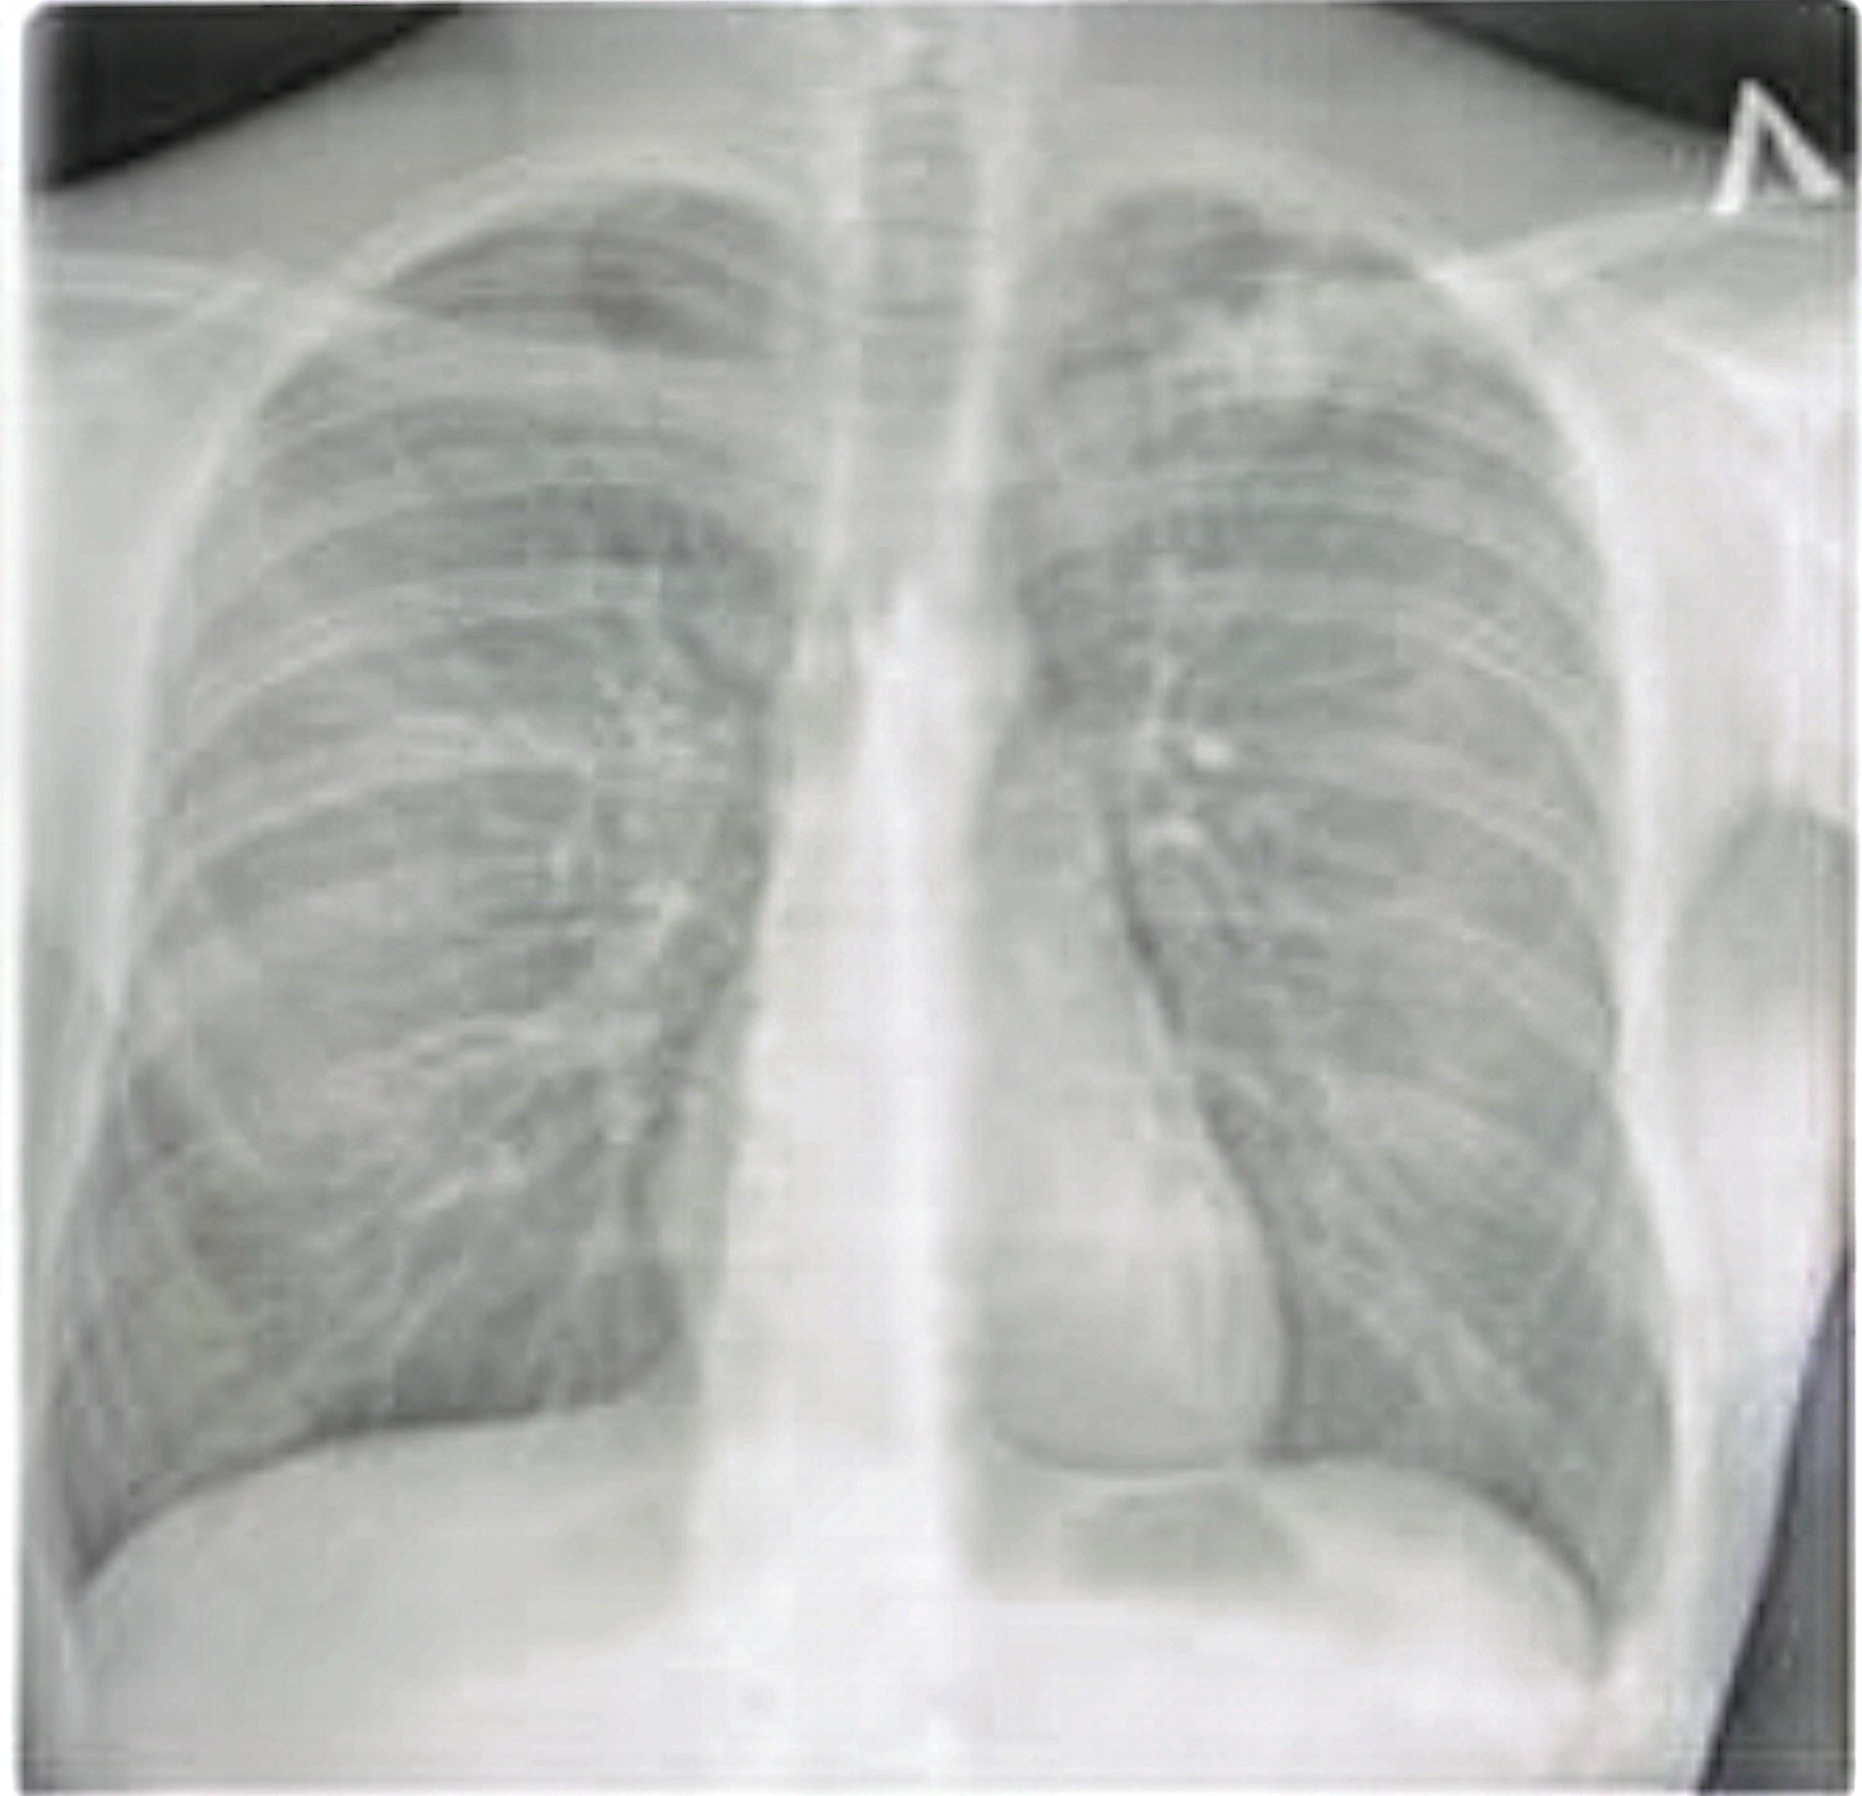
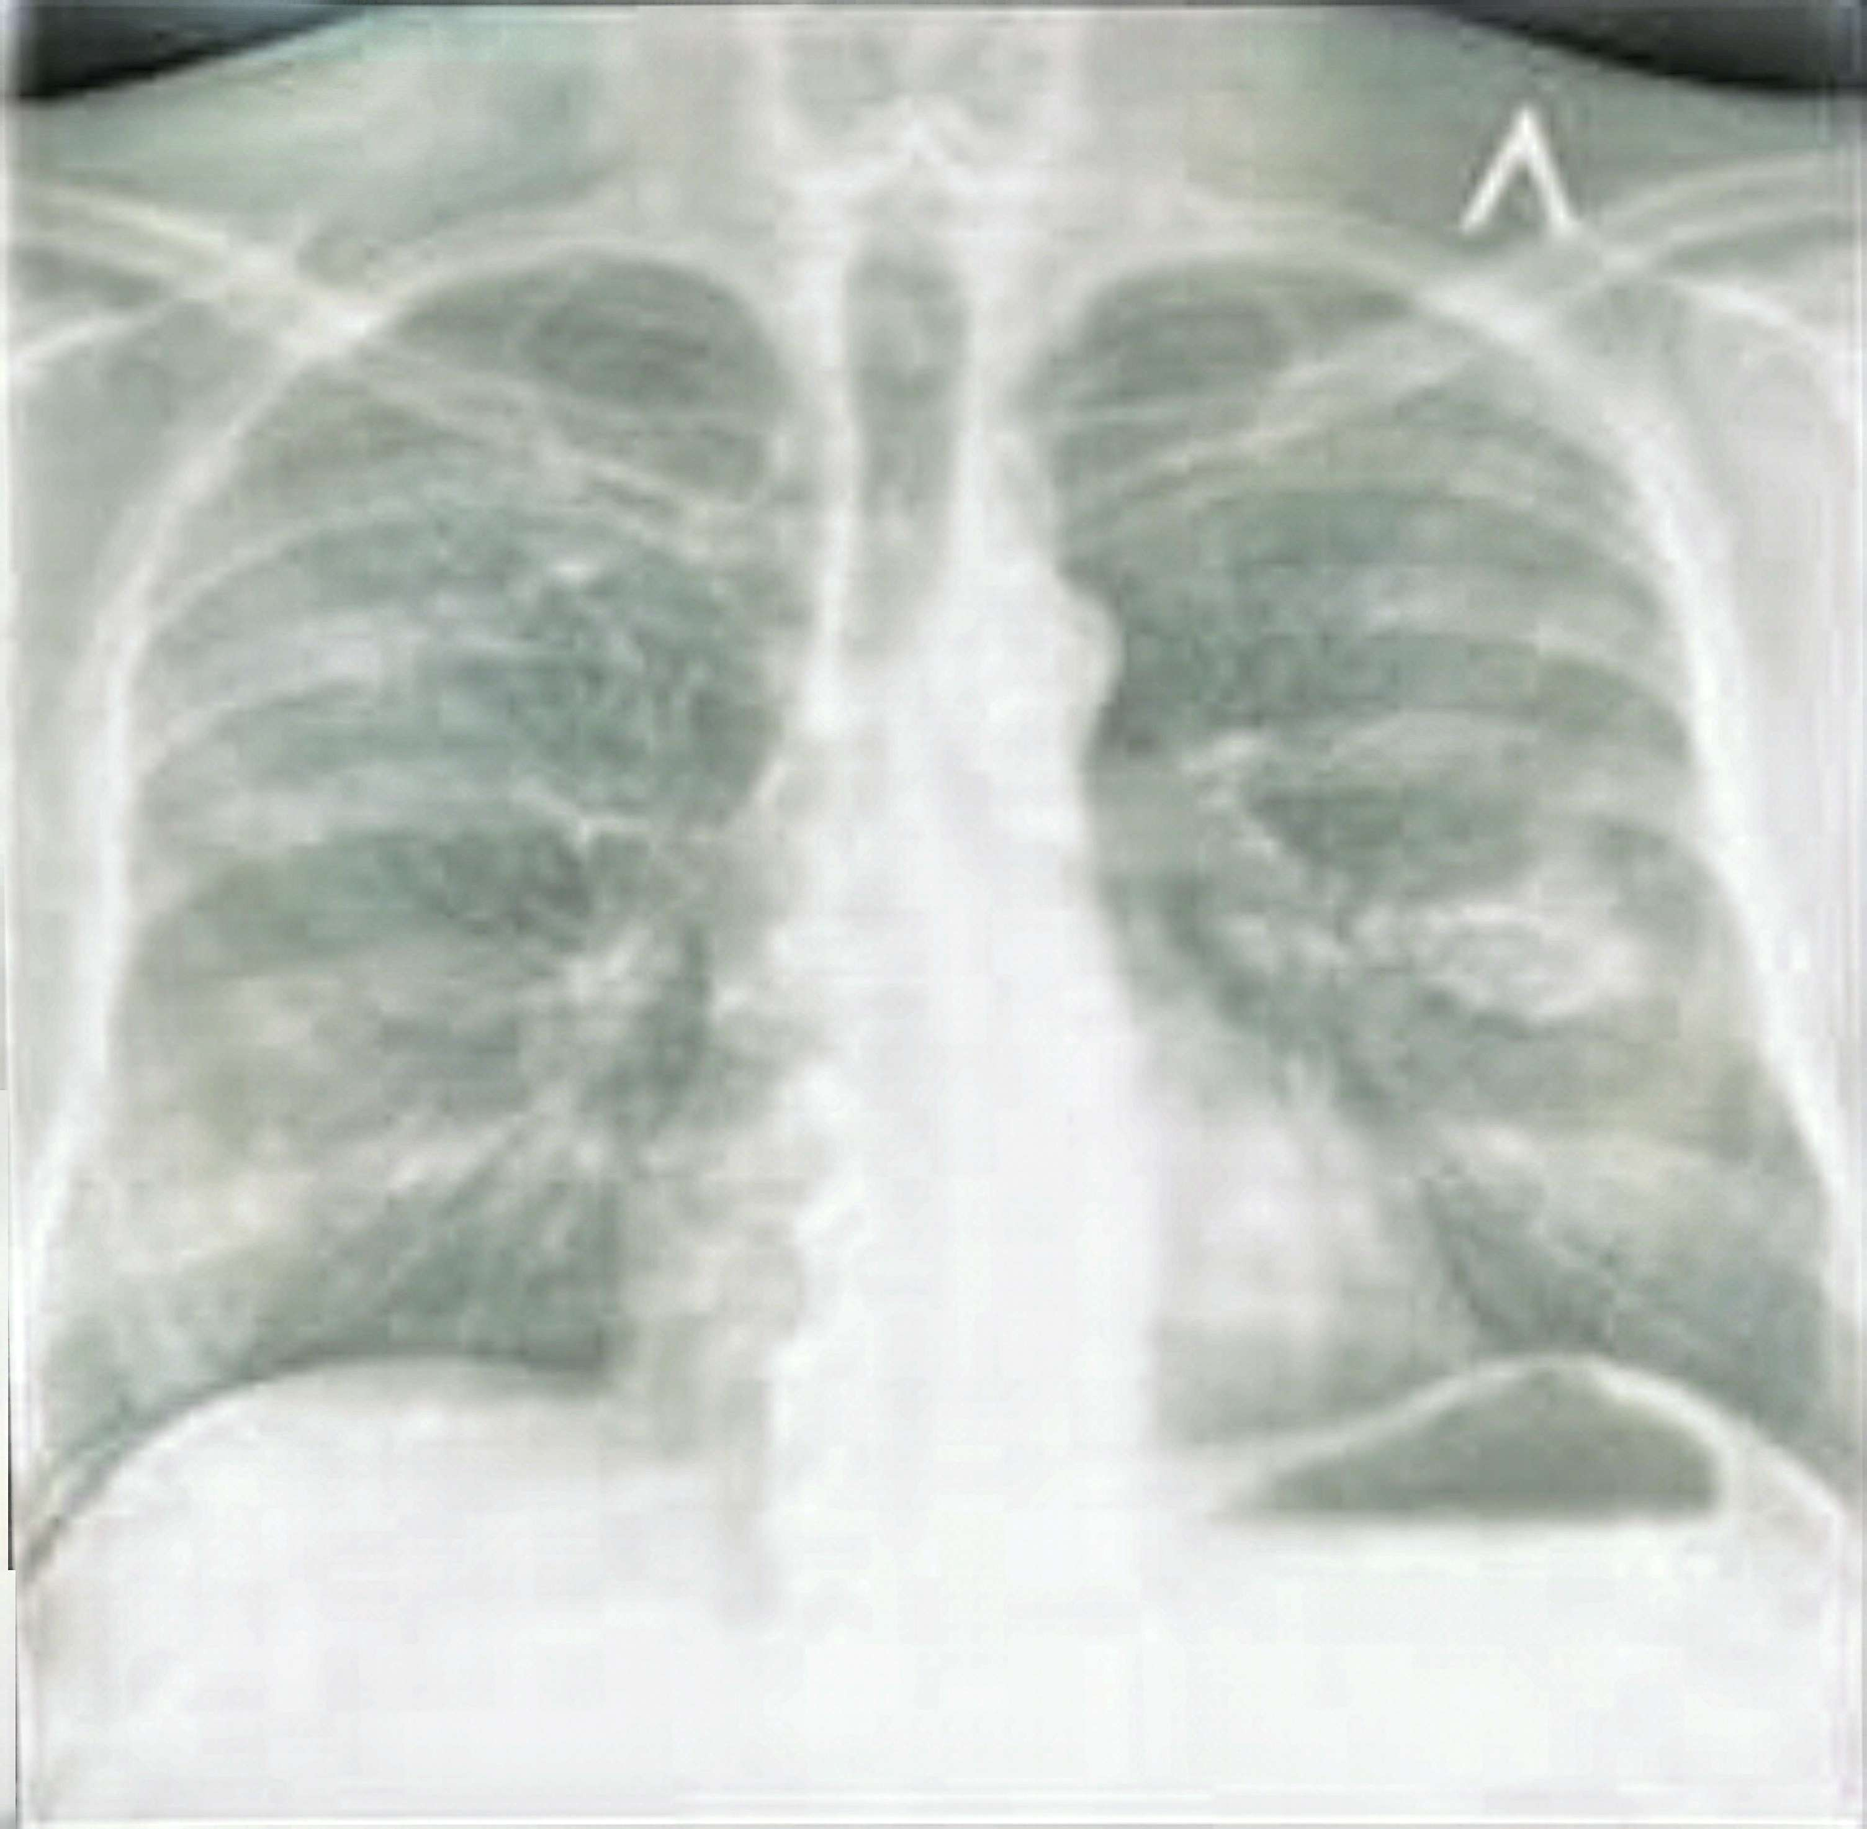
ughhh

diff --git a/frontend/src/pages/Doctor/ReviewedCases.jsx b/frontend/src/pages/Doctor/ReviewedCases.jsx
@@ -21,15 +21,17 @@ const ReviewedCases = () => {
     if (myCases) {
       console.log("🔍 Filtering reviewed cases from myCases...");
       console.log("Total my cases:", myCases.length);
-      
-      const reviewedCases = myCases.filter((caseItem) => caseItem.status === "reviewed");
+
+      const reviewedCases = myCases.filter(
+        (caseItem) => caseItem.status === "reviewed",
+      );
 
       console.log("✅ Found", reviewedCases.length, "reviewed cases");
 
       const searched = reviewedCases.filter(
         (c) =>
           c.patientId?.toLowerCase().includes(searchTerm.toLowerCase()) ||
-          c.report?.diagnosis?.toLowerCase().includes(searchTerm.toLowerCase())
+          c.report?.diagnosis?.toLowerCase().includes(searchTerm.toLowerCase()),
       );
 
       setFilteredCases(searched);
@@ -171,15 +173,21 @@ const ReviewedCases = () => {
                       </button>
                     </td>
                     <td className="px-6 py-4 align-middle">
-                      <button
-                        onClick={() => {
-                          setSelectedCase(item);
-                          setShowAIModal(true);
-                        }}
-                        className="px-4 py-2 bg-purple-50 text-purple-700 rounded-lg text-sm font-medium hover:bg-purple-100 transition"
-                      >
-                        View AI Report
-                      </button>
+                      {item.aiResult ? (
+                        <button
+                          onClick={() => {
+                            setSelectedCase(item);
+                            setShowAIModal(true);
+                          }}
+                          className="px-4 py-2 bg-purple-50 text-purple-700 rounded-lg text-sm font-medium hover:bg-purple-100 transition"
+                        >
+                          View AI Report
+                        </button>
+                      ) : (
+                        <span className="text-sm text-gray-500">
+                          AI Report Not Available
+                        </span>
+                      )}
                     </td>
                   </tr>
                 ))}
@@ -260,7 +268,7 @@ const ReviewedCases = () => {
                         {selectedCase.report[field]}
                       </div>
                     </div>
-                  )
+                  ),
               )}
 
               <div className="pt-4 border-t border-gray-200 text-sm text-gray-600">
@@ -293,15 +301,29 @@ const ReviewedCases = () => {
           <div className="bg-white rounded-2xl max-w-4xl w-full max-h-[90vh] overflow-hidden shadow-2xl">
             <div className="px-6 py-4 border-b flex items-center justify-between bg-gradient-to-r from-purple-50 to-blue-50">
               <div>
-                <h2 className="text-xl font-bold text-gray-800">AI Analysis Report</h2>
-                <p className="text-sm text-gray-600">Patient ID: {selectedCase.patientId}</p>
+                <h2 className="text-xl font-bold text-gray-800">
+                  AI Analysis Report
+                </h2>
+                <p className="text-sm text-gray-600">
+                  Patient ID: {selectedCase.patientId}
+                </p>
               </div>
               <button
                 onClick={() => setShowAIModal(false)}
                 className="p-2 hover:bg-gray-100 rounded-full transition-all"
               >
-                <svg className="w-6 h-6" fill="none" stroke="currentColor" viewBox="0 0 24 24">
-                  <path strokeLinecap="round" strokeLinejoin="round" strokeWidth={2} d="M6 18L18 6M6 6l12 12" />
+                <svg
+                  className="w-6 h-6"
+                  fill="none"
+                  stroke="currentColor"
+                  viewBox="0 0 24 24"
+                >
+                  <path
+                    strokeLinecap="round"
+                    strokeLinejoin="round"
+                    strokeWidth={2}
+                    d="M6 18L18 6M6 6l12 12"
+                  />
                 </svg>
               </button>
             </div>
@@ -310,7 +332,9 @@ const ReviewedCases = () => {
               {/* Images Section */}
               <div className="grid grid-cols-2 gap-4 mb-6">
                 <div>
-                  <h3 className="text-sm font-semibold text-gray-700 mb-2">Original X-Ray</h3>
+                  <h3 className="text-sm font-semibold text-gray-700 mb-2">
+                    Original X-Ray
+                  </h3>
                   <img
                     src={selectedCase.imageUrl}
                     alt="X-ray"
@@ -320,38 +344,56 @@ const ReviewedCases = () => {
                 </div>
                 {selectedCase.aiResult.heatmapUrl && (
                   <div>
-                    <h3 className="text-sm font-semibold text-gray-700 mb-2">AI Attention Map (Grad-CAM)</h3>
+                    <h3 className="text-sm font-semibold text-gray-700 mb-2">
+                      AI Attention Map (Grad-CAM)
+                    </h3>
                     <img
                       src={selectedCase.aiResult.heatmapUrl}
                       alt="Heatmap"
                       className="w-full h-64 object-cover border rounded-lg cursor-pointer hover:opacity-80"
-                      onClick={() => setExpandedImage(selectedCase.aiResult.heatmapUrl)}
+                      onClick={() =>
+                        setExpandedImage(selectedCase.aiResult.heatmapUrl)
+                      }
                     />
-                    <p className="text-xs text-gray-500 mt-1">Highlighted areas show AI focus regions</p>
+                    <p className="text-xs text-gray-500 mt-1">
+                      Highlighted areas show AI focus regions
+                    </p>
                   </div>
                 )}
               </div>
 
               {/* Predictions */}
               <div className="mb-6">
-                <h3 className="text-lg font-bold text-gray-800 mb-3">AI Predictions</h3>
+                <h3 className="text-lg font-bold text-gray-800 mb-3">
+                  AI Predictions
+                </h3>
                 <div className="space-y-3">
                   {selectedCase.aiResult.predictions.map((pred, idx) => (
                     <div key={idx} className="bg-gray-50 p-4 rounded-lg">
                       <div className="flex justify-between items-center mb-2">
-                        <span className="text-base font-semibold text-gray-800">{pred.label}</span>
-                        <span className={`text-lg font-bold ${
-                          pred.confidence > 80 ? 'text-red-600' : 
-                          pred.confidence > 50 ? 'text-orange-600' : 'text-green-600'
-                        }`}>
+                        <span className="text-base font-semibold text-gray-800">
+                          {pred.label}
+                        </span>
+                        <span
+                          className={`text-lg font-bold ${
+                            pred.confidence > 80
+                              ? "text-red-600"
+                              : pred.confidence > 50
+                                ? "text-orange-600"
+                                : "text-green-600"
+                          }`}
+                        >
                           {pred.confidence.toFixed(2)}%
                         </span>
                       </div>
                       <div className="w-full bg-gray-200 rounded-full h-2">
                         <div
                           className={`h-2 rounded-full ${
-                            pred.confidence > 80 ? 'bg-red-500' : 
-                            pred.confidence > 50 ? 'bg-orange-500' : 'bg-green-500'
+                            pred.confidence > 80
+                              ? "bg-red-500"
+                              : pred.confidence > 50
+                                ? "bg-orange-500"
+                                : "bg-green-500"
                           }`}
                           style={{ width: `${pred.confidence}%` }}
                         ></div>
@@ -364,21 +406,30 @@ const ReviewedCases = () => {
               {/* Quality Checks */}
               {selectedCase.aiResult.qcResults && (
                 <div>
-                  <h3 className="text-lg font-bold text-gray-800 mb-3">Quality Checks</h3>
+                  <h3 className="text-lg font-bold text-gray-800 mb-3">
+                    Quality Checks
+                  </h3>
                   <div className="grid grid-cols-2 md:grid-cols-3 gap-3">
-                    {Object.entries(selectedCase.aiResult.qcResults).map(([key, value]) => 
-                      key !== 'qc_pass' && (
-                        <div key={key} className={`p-3 rounded-lg ${value ? 'bg-green-50 border border-green-200' : 'bg-red-50 border border-red-200'}`}>
-                          <div className="flex items-center justify-between">
-                            <span className="text-sm font-medium text-gray-700">
-                              {key.replace('_', ' ').charAt(0).toUpperCase() + key.replace('_', ' ').slice(1)}
-                            </span>
-                            <span className={`text-sm font-bold ${value ? 'text-green-700' : 'text-red-700'}`}>
-                              {value ? '✓ Pass' : '✗ Fail'}
-                            </span>
+                    {Object.entries(selectedCase.aiResult.qcResults).map(
+                      ([key, value]) =>
+                        key !== "qc_pass" && (
+                          <div
+                            key={key}
+                            className={`p-3 rounded-lg ${value ? "bg-green-50 border border-green-200" : "bg-red-50 border border-red-200"}`}
+                          >
+                            <div className="flex items-center justify-between">
+                              <span className="text-sm font-medium text-gray-700">
+                                {key.replace("_", " ").charAt(0).toUpperCase() +
+                                  key.replace("_", " ").slice(1)}
+                              </span>
+                              <span
+                                className={`text-sm font-bold ${value ? "text-green-700" : "text-red-700"}`}
+                              >
+                                {value ? "✓ Pass" : "✗ Fail"}
+                              </span>
+                            </div>
                           </div>
-                        </div>
-                      )
+                        ),
                     )}
                   </div>
                 </div>
@@ -387,12 +438,16 @@ const ReviewedCases = () => {
               {/* Model Info */}
               <div className="mt-6 pt-4 border-t">
                 <p className="text-sm text-gray-600">
-                  Model: {selectedCase.aiResult.modelVersion || 'MobileNetV2-v1'}
+                  Model:{" "}
+                  {selectedCase.aiResult.modelVersion || "MobileNetV2-v1"}
                 </p>
                 <p className="text-sm text-gray-600">
-                  Processed: {selectedCase.aiResult.processedAt 
-                    ? new Date(selectedCase.aiResult.processedAt).toLocaleString()
-                    : 'Recently'}
+                  Processed:{" "}
+                  {selectedCase.aiResult.processedAt
+                    ? new Date(
+                        selectedCase.aiResult.processedAt,
+                      ).toLocaleString()
+                    : "Recently"}
                 </p>
               </div>
             </div>

diff --git a/frontend/src/pages/Doctor/DoctorDashboard.jsx b/frontend/src/pages/Doctor/DoctorDashboard.jsx
@@ -144,7 +144,7 @@ const DoctorDashboard = () => {
         </h1>
         <div className="flex gap-4 flex-wrap">
           <div className="bg-white border border-gray-200 rounded-lg shadow p-4 w-40">
-            <p className="text-gray-500 text-sm">Available Cases</p>
+            <p className="text-gray-500 text-sm">Pending Cases</p>
             <p className="text-xl font-bold text-gray-800">{totalAvailable}</p>
           </div>
           <div className="bg-white border border-gray-200 rounded-lg shadow p-4 w-40">
@@ -176,7 +176,7 @@ const DoctorDashboard = () => {
                   : "text-gray-600 hover:bg-gray-100"
               }`}
             >
-              Available ({totalAvailable})
+              Pending Cases ({totalAvailable})
             </button>
             <button
               onClick={() => setActiveTab("myCases")}
@@ -393,7 +393,7 @@ const DoctorDashboard = () => {
                 <div className="flex flex-col gap-4">
                   <div>
                     <h3 className="text-gray-700 font-medium mb-1">
-                      Patient History
+                      Patient Symptoms
                     </h3>
                     <p className="text-gray-800 text-sm leading-relaxed">
                       {selectedCase.patientHistory}

diff --git a/backend/controllers/doctorController.js b/backend/controllers/doctorController.js
@@ -205,7 +205,9 @@ const getCases = async (req, res) => {
 
     // Fetch all AI_PROCESSED cases with AI results populated
     const allCases = await Case.find({
-      status: { $in: ["AI_PROCESSED", "ASSIGNED_TO_DOCTOR", "reviewed"] },
+      status: {
+        $in: ["AI_PROCESSED", "AI_FAILED", "ASSIGNED_TO_DOCTOR", "reviewed"],
+      },
     })
       .populate("report.doctorId", "name speciality")
       .populate("aiResult")
@@ -301,6 +303,7 @@ const acceptCase = async (req, res) => {
       });
     }
 
+    /*
     // Check if case is in correct status
     if (caseData.status !== "AI_PROCESSED") {
       return res.json({
@@ -308,7 +311,7 @@ const acceptCase = async (req, res) => {
         message: "Case is not ready for assignment",
       });
     }
-
+*/
     // Assign the case
     caseData.assignedDoctor = docId;
     caseData.status = "ASSIGNED_TO_DOCTOR";
